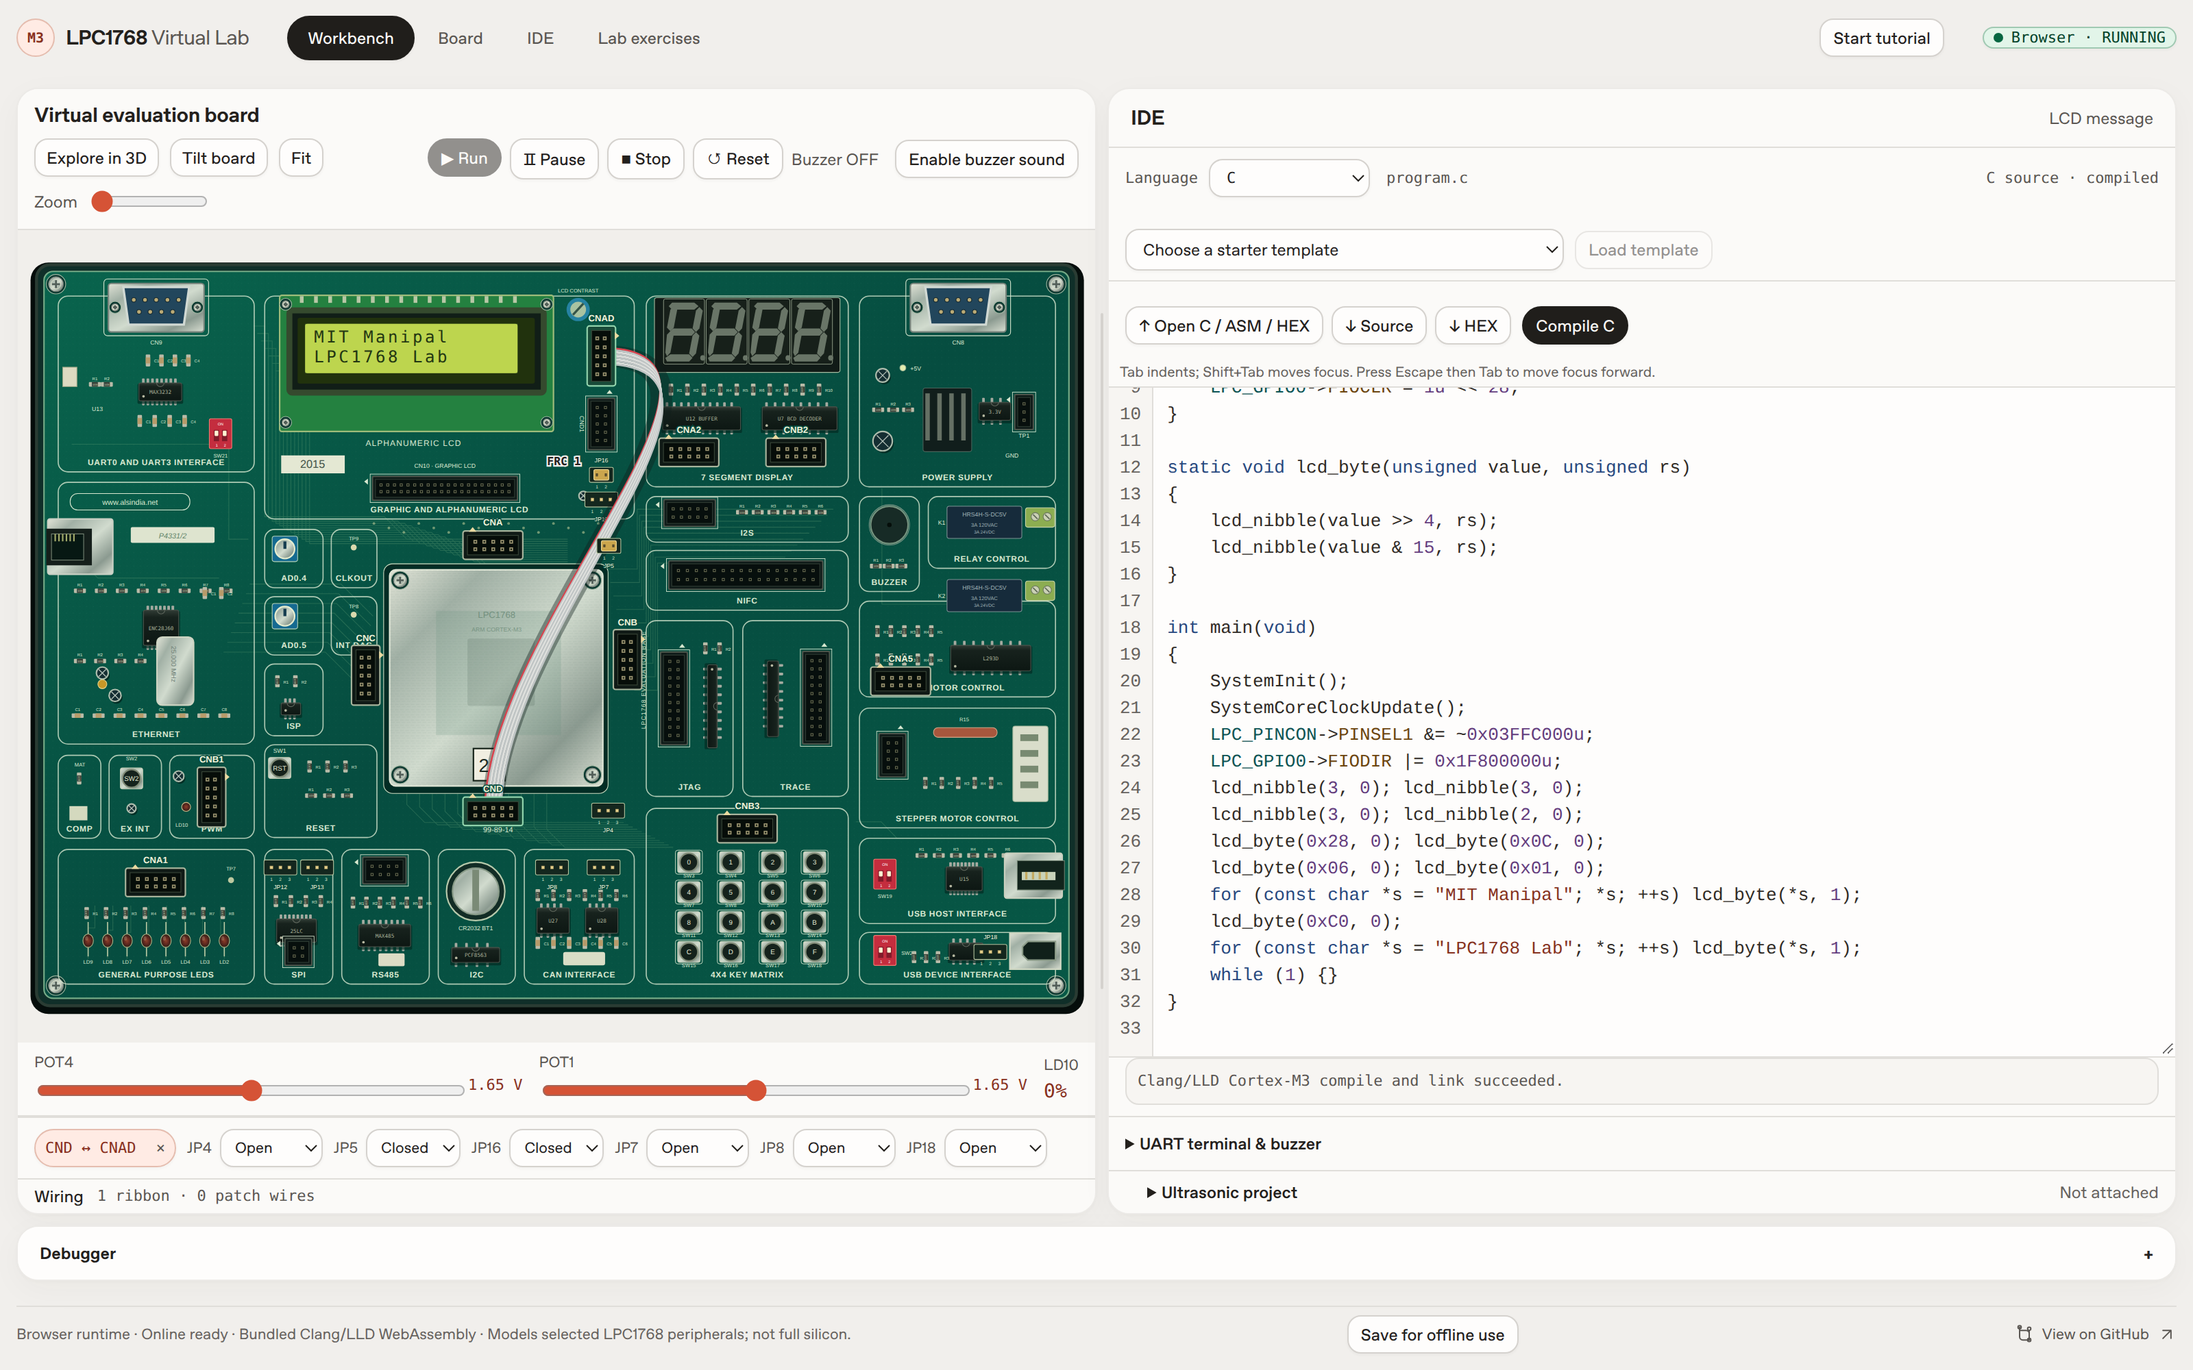
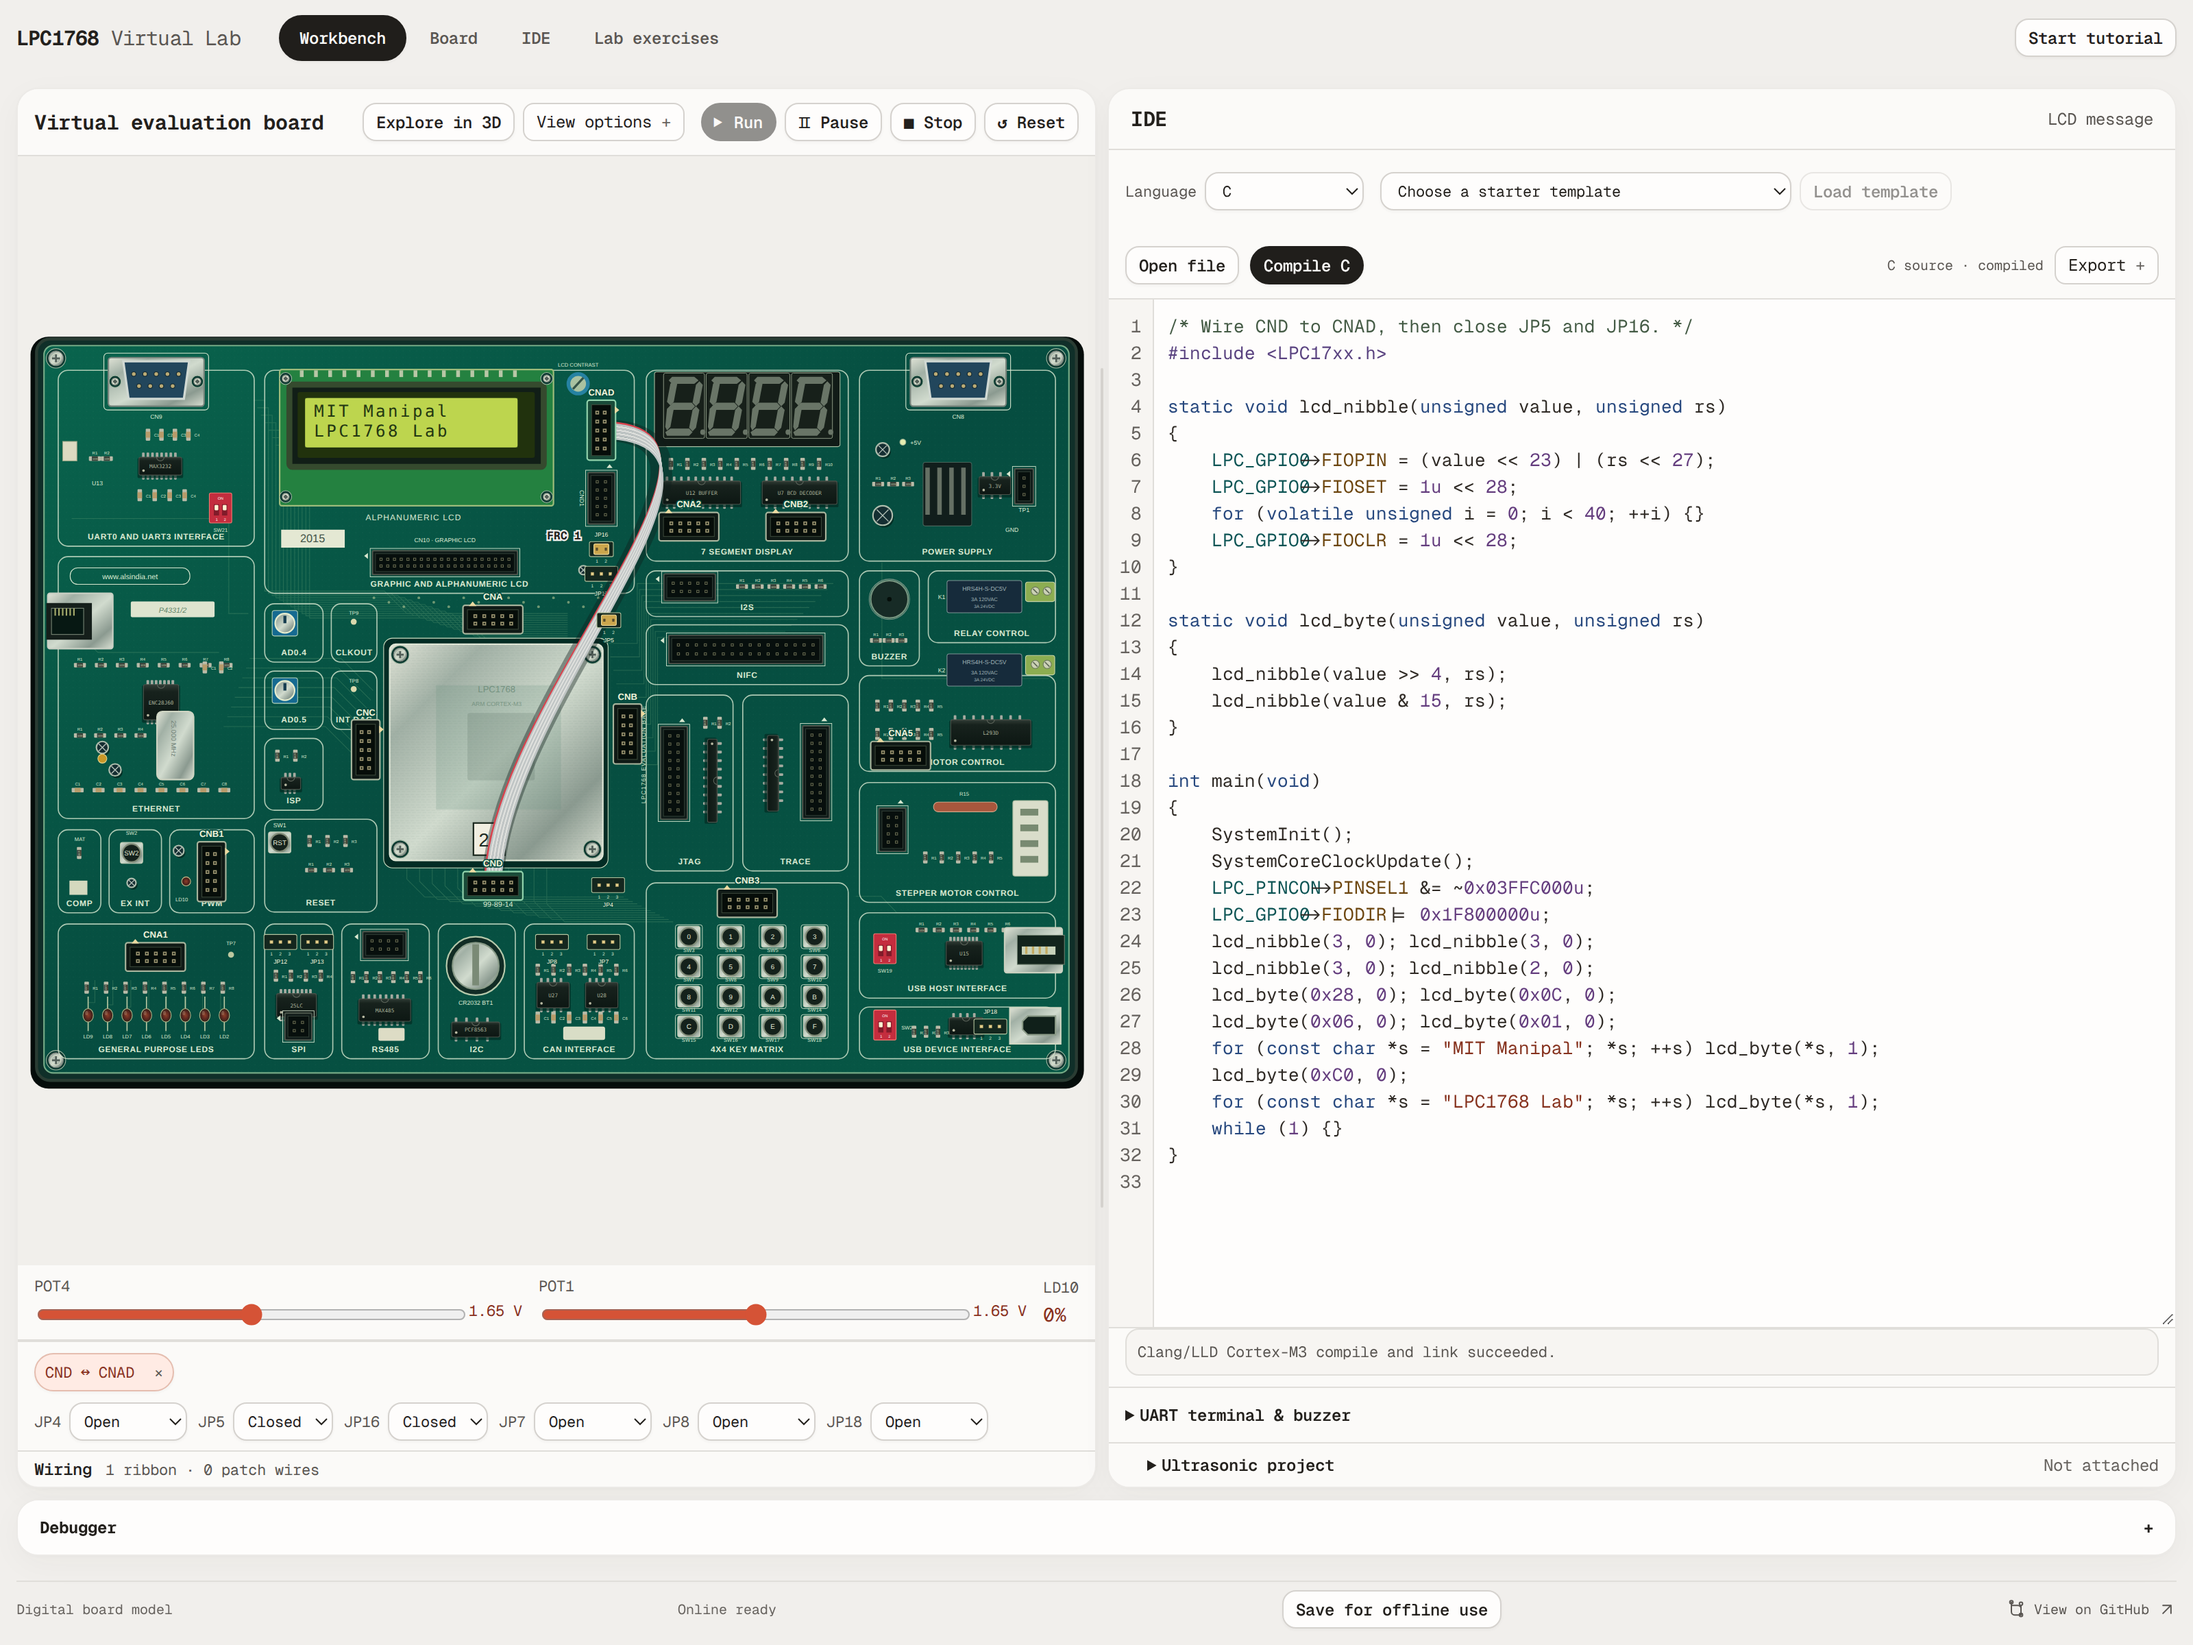
docs: capture the simplified Geist Mono interface without the status badge

diff --git a/README.md b/README.md
@@ -7,7 +7,7 @@ with LEDs, switches, LCD, keypad, seven-segment displays, ADC and PWM.
 ## Screenshots
 
 The redesigned [Web Lab](https://lpc1768-student-lab.spanner.workers.dev/#workbench)
-uses a light interface with a split Workbench and dedicated Board and IDE views.
+uses a light interface, Geist Mono, a split Workbench and dedicated Board and IDE views.
 
 ### Workbench
 
@@ -23,7 +23,7 @@ Running LCD firmware with ribbon wiring and jumper controls.
 
 ### C editor
 
-Syntax-highlighted C source with line numbers, browser compiler output and execution controls.
+Syntax-highlighted C source with line numbers, browser compiler output and grouped export controls.
 
 ![C editor with syntax-highlighted LCD firmware, a successful build and execution controls](docs/screenshots/ide.png)
 
